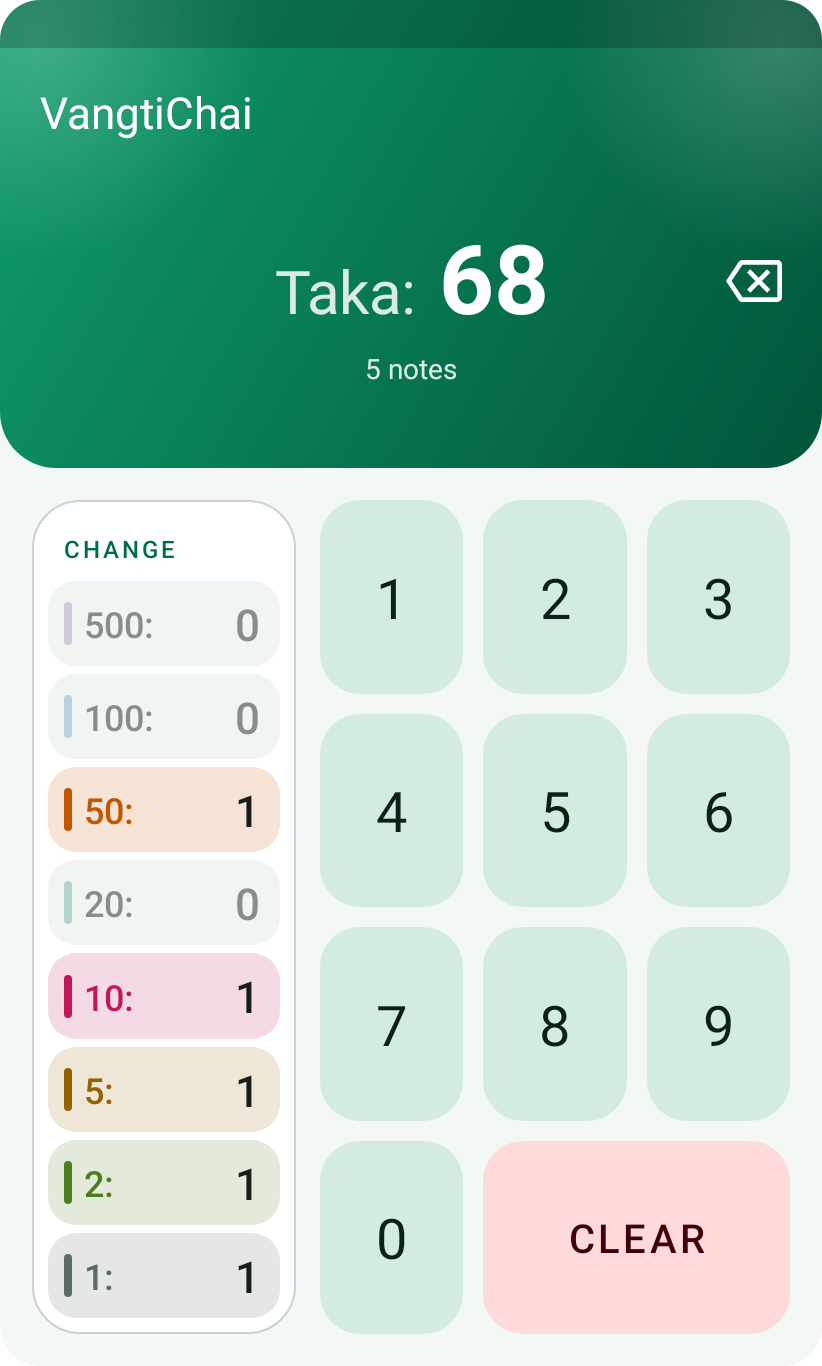
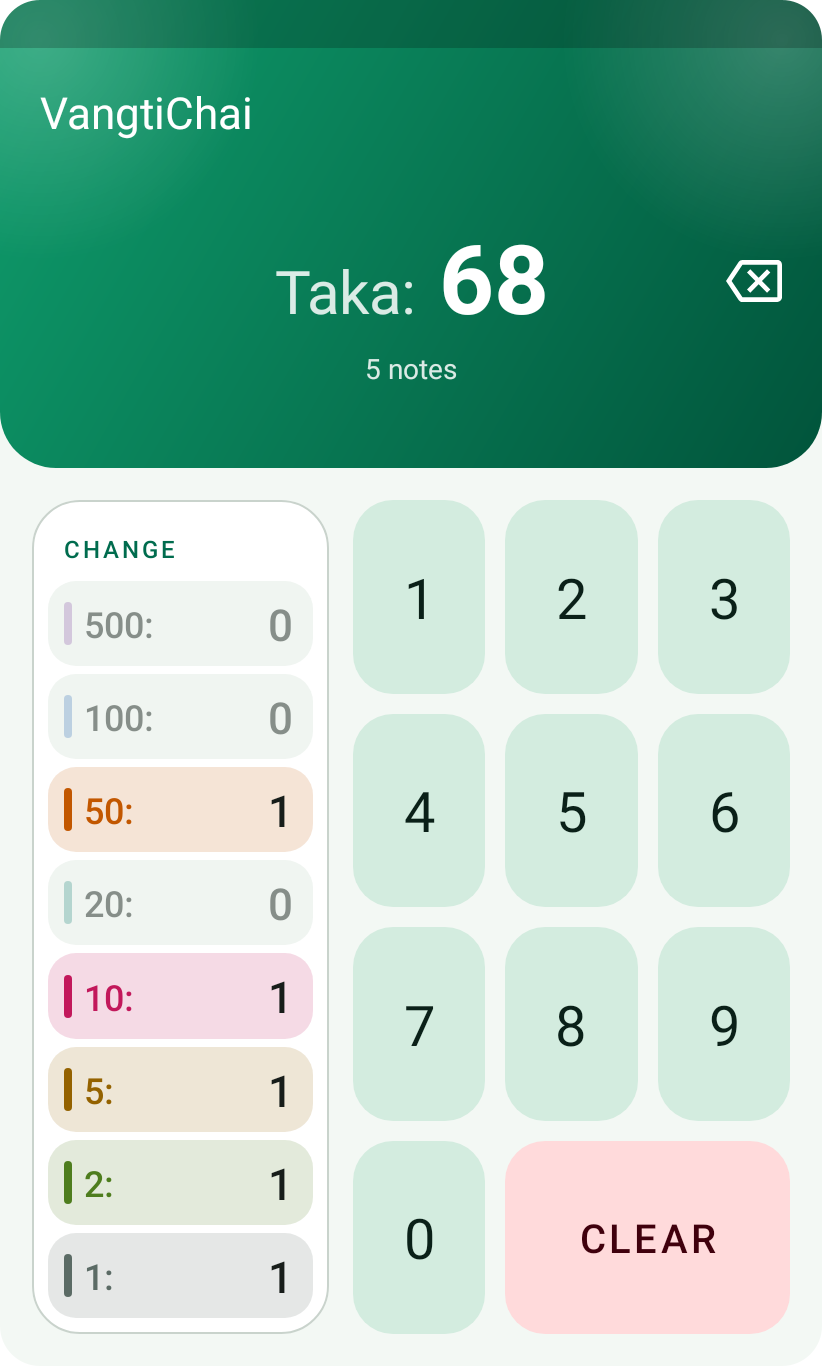
Accept amounts of up to 9 digits
The keypad now takes up to 999,999,999 Taka. The change table is a little
wider in portrait (40% of the width on phones and tablets) so the
largest count, 1,999,999 five-hundreds, still fits in full on a
360 dp phone. Long amounts and counts shrink to fit as before.

diff --git a/app/src/main/java/com/example/vangtichai/ChangeCalculator.kt b/app/src/main/java/com/example/vangtichai/ChangeCalculator.kt
@@ -9,10 +9,10 @@ object ChangeCalculator {
     val NOTES = intArrayOf(500, 100, 50, 20, 10, 5, 2, 1)
 
     /**
-     * Longest amount (in digits) the keypad accepts: up to 9,999,999 Taka. That keeps the largest
-     * count (19,999 five-hundreds) narrow enough to show in full even on small phones.
+     * Longest amount (in digits) the keypad accepts: up to 999,999,999 Taka. The largest count
+     * (1,999,999 five-hundreds) still shows in full on small phones; the text shrinks to fit.
      */
-    const val MAX_DIGITS = 7
+    const val MAX_DIGITS = 9
 
     /**
      * Returns how many of each note in [NOTES] make up [amount], using as few notes as possible.

diff --git a/app/src/test/java/com/example/vangtichai/ChangeCalculatorTest.kt b/app/src/test/java/com/example/vangtichai/ChangeCalculatorTest.kt
@@ -23,7 +23,7 @@ class ChangeCalculatorTest {
 
     @Test
     fun largestAcceptedAmount() {
-        assertArrayEquals(longArrayOf(19_999, 4, 1, 2, 0, 1, 2, 0), ChangeCalculator.breakdown(9_999_999))
+        assertArrayEquals(longArrayOf(1_999_999, 4, 1, 2, 0, 1, 2, 0), ChangeCalculator.breakdown(999_999_999))
     }
 
     @Test

diff --git a/README.md b/README.md
@@ -40,7 +40,7 @@ A Taka change calculator for Android. Type an amount and see exactly which notes
 | 🎨 **Material 3, light and dark** | A green "Taka" theme with full dark-theme support and edge-to-edge drawing that keeps clear of the status bar, navigation bar and display cutouts. |
 | 🌈 **Colour-coded notes** | Each note has its own colour. Notes that are part of the change light up and the rest fade back. |
 | ✨ **Small touches** | Counts pop when they change, keys shrink slightly when pressed, and every key press gives haptic feedback. |
-| 🛑 **Input limit** | Accepts up to 7 digits (9,999,999 Taka). Typing more shakes the amount and shows *"Up to 7 digits"*, so every count fits on screen. |
+| 🛑 **Input limit** | Accepts up to 9 digits (999,999,999 Taka). Typing more shakes the amount and shows *"Up to 9 digits"*. Long amounts and counts shrink to fit, so everything stays on one screen. |
 | ⌨ **Hardware keyboard** | Digits type, <kbd>Backspace</kbd> deletes the last digit, and <kbd>Esc</kbd> or <kbd>C</kbd> clears. Handy on an emulator. |
 | ♿ **Accessible** | Screen readers announce the amount as it changes, and each row has a spoken description such as *"1 note of 500 Taka"*. |
 | 🖼 **Adaptive launcher icon** | A custom adaptive icon, including a themed (monochrome) version for Android 13+. |
@@ -95,7 +95,7 @@ Tablet layouts use the same arrangement, scaled up, with a subtitle in the app b
 ### Input limit and launcher icon
 
 <p align="center">
-  <img src="docs/images/phone-limit-light.png" width="230" alt="The amount at the 7-digit limit, with the caption 'Up to 7 digits'">
+  <img src="docs/images/phone-limit-light.png" width="230" alt="The amount at the 9-digit limit, with the caption 'Up to 9 digits'">
   &nbsp;&nbsp;
   <img src="docs/images/launcher-icons.png" width="500" alt="Launcher icon: round, squircle and themed monochrome versions">
 </p>
@@ -115,7 +115,7 @@ The layout files contain no hardcoded values. Text sizes, margins, paddings, cor
 
 ### Tested screen sizes
 
-Each size was rendered in portrait and landscape, in both themes, after typing amounts such as 6, 68, 688, 6880 and 9999999.
+Each size was rendered in portrait and landscape, in both themes, after typing amounts such as 6, 68, 688, 6880 and 999999999.
 
 | Device | Size | |
 |:--|:--|:--|
@@ -155,7 +155,7 @@ On Windows, use `gradlew.bat` in place of `./gradlew`.
 
 | Command | What it runs |
 |:--|:--|
-| `./gradlew test` | JVM unit tests for the change logic: the examples from the assignment, the 7-digit limit, backspace, and a check that the fewest notes are always used |
+| `./gradlew test` | JVM unit tests for the change logic: the examples from the assignment, the 9-digit limit, backspace, and a check that the fewest notes are always used |
 | `./gradlew connectedAndroidTest` | Espresso UI tests for typing, CLEAR, backspace (tap and hold), and keeping state across activity recreation (needs a device or emulator) |
 
 ## 📂 Project structure
